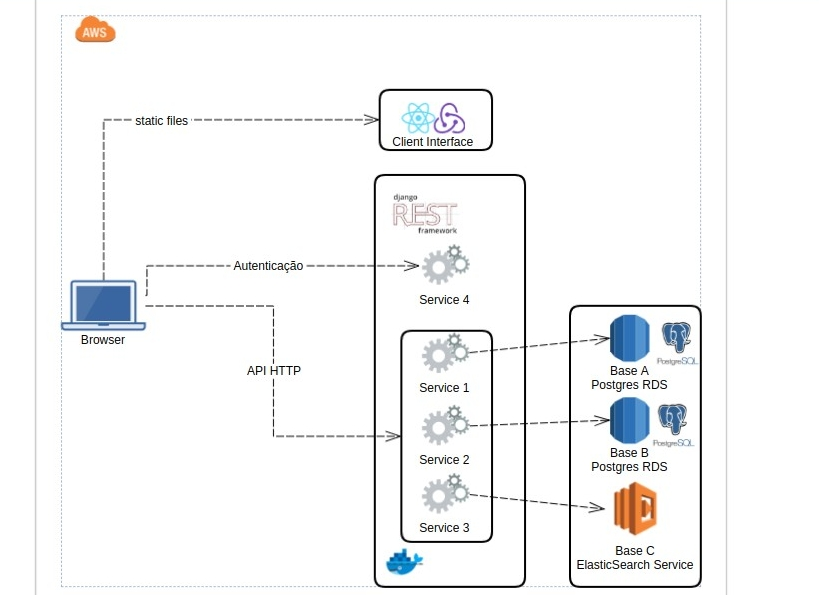
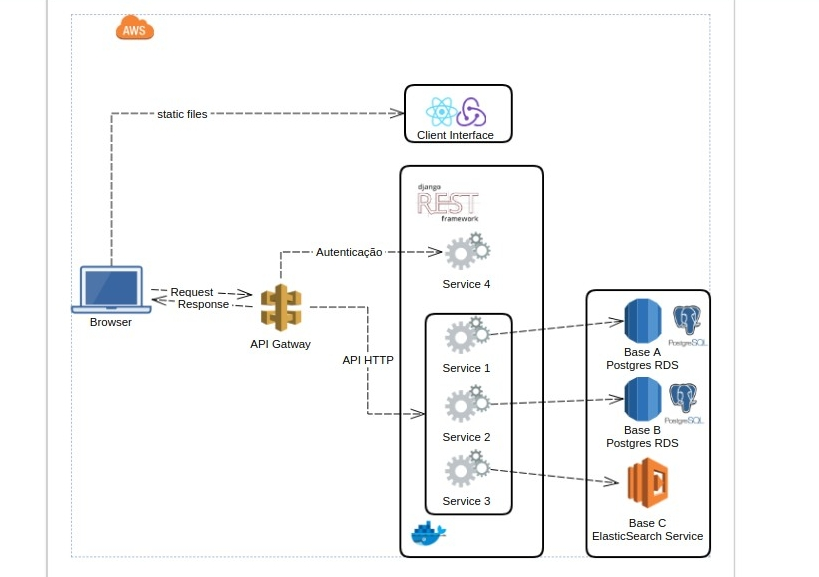
Adcionando api gateway

Changed region(s): [[0.0305, 0.0, 0.8852, 1.0], [0.0916, 0.0, 0.2137, 0.0936]]

diff --git a/README.md b/README.md
@@ -48,6 +48,12 @@ Em uma abordagem HTTP RESTful, usamos uma  interface que compusesse o protocolo 
 
 ![APIs](https://github.com/JonnatasCabral/desafioSC/blob/master/imagens/api.jpg)
 
+#### API Gateway
+
+Para a porta de entrada das nossas APIs, escolhi usar o API Gateway da AWS. Pensando na segurança, possuir um Gateway de APIs é uma das melhores soluções no mercado para conseguir ter o controle integral de sua API. 
+Contemplando os pilares CIA (Confidentiality, Integrity, Availability) de forma quase impecável.
+
+
 ##### Payloads 
 
 
